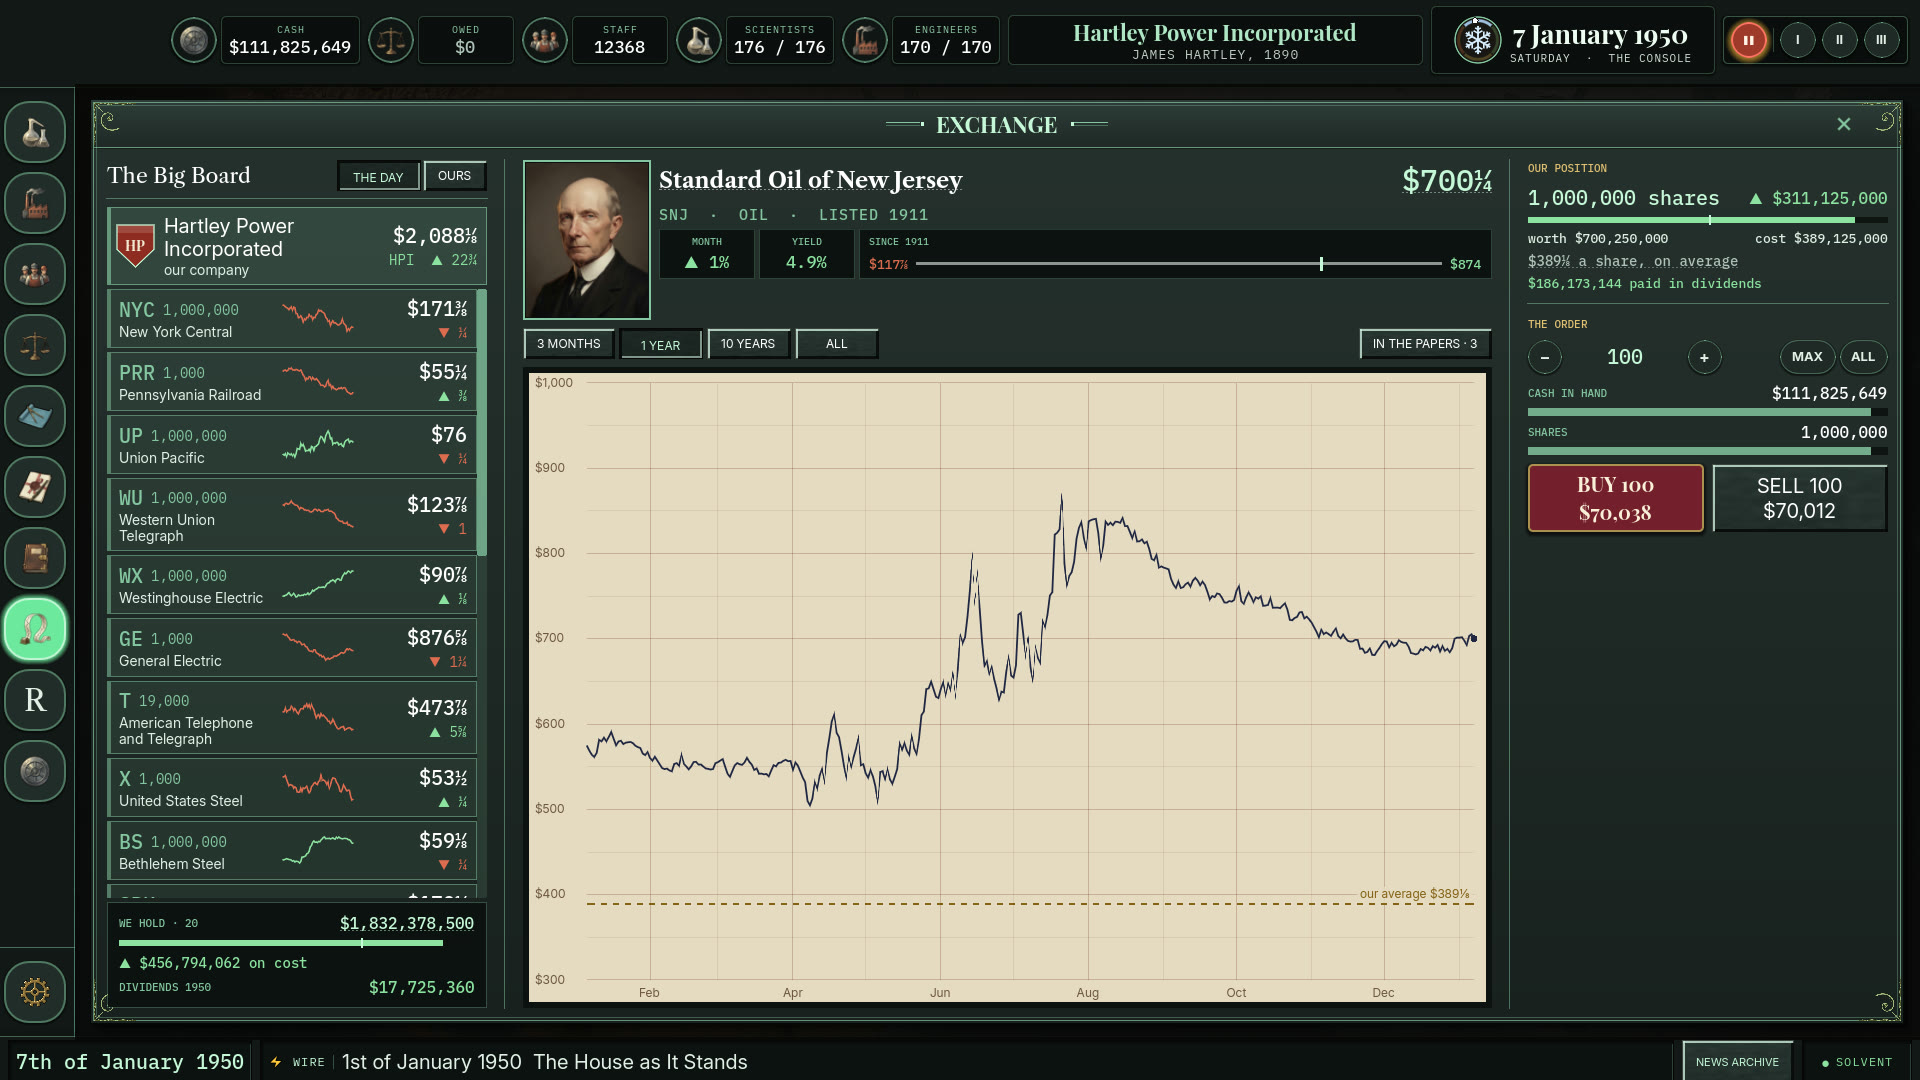
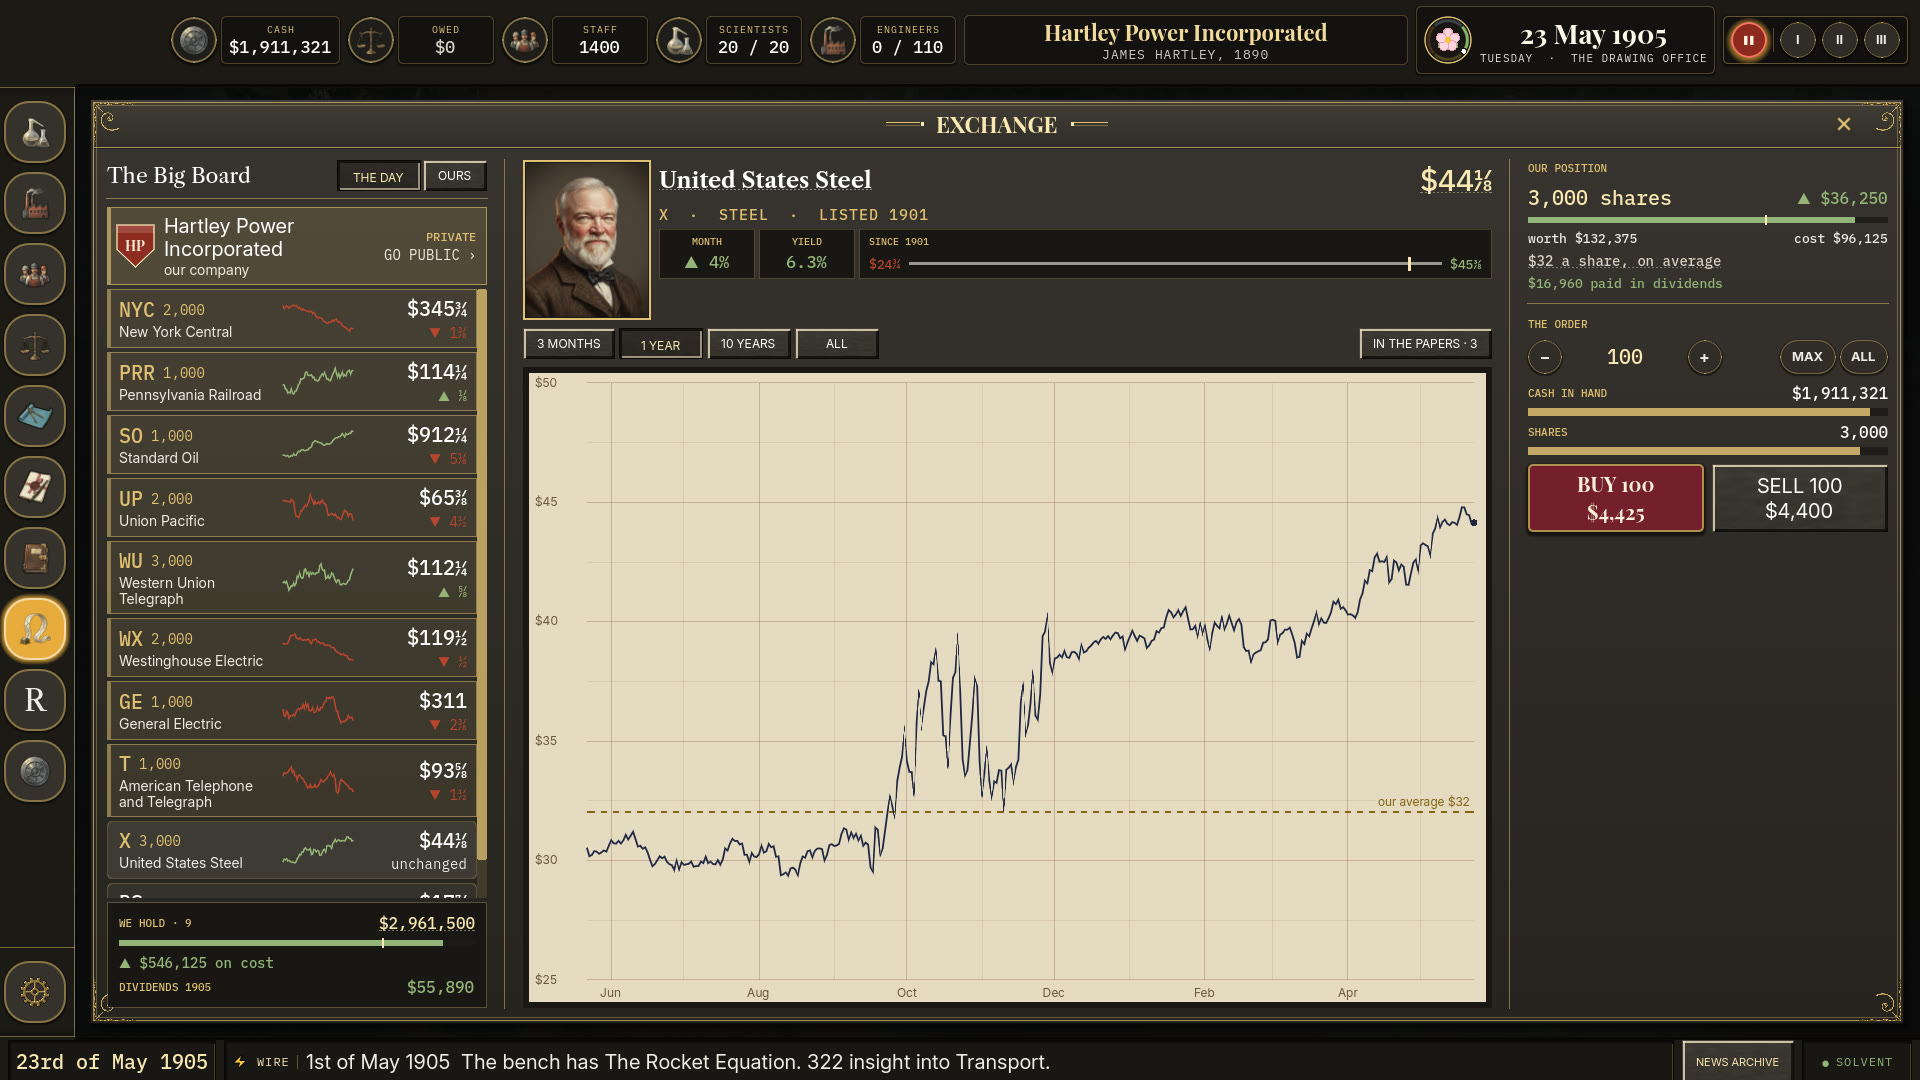
Screens in the standard look: a 1905 company, before the war's news turns the board

diff --git a/index.html b/index.html
@@ -146,7 +146,7 @@
   </section>
 
   <section class="feature">
-    <figure class="shot"><img src="media/exchange.jpg" alt="The Big Board: share prices quoted in eighths, with a year's chart of Standard Oil of New Jersey." loading="lazy"></figure>
+    <figure class="shot"><img src="media/exchange.jpg" alt="The Big Board in 1905: share prices quoted in eighths, with a year's chart of United States Steel." loading="lazy"></figure>
     <div>
       <div class="label">The Big Board</div>
       <h2>Quoted in eighths, as it was</h2>
@@ -155,7 +155,7 @@
   </section>
 
   <section class="feature">
-    <figure class="shot"><img src="media/map.jpg" alt="The United States in January, snow across the north, the works of a grown company marked across the country." loading="lazy"></figure>
+    <figure class="shot"><img src="media/map.jpg" alt="The United States in May 1905, the works of a growing company marked across the Northeast." loading="lazy"></figure>
     <div>
       <div class="label">The Country</div>
       <h2>A continent that keeps time</h2>
